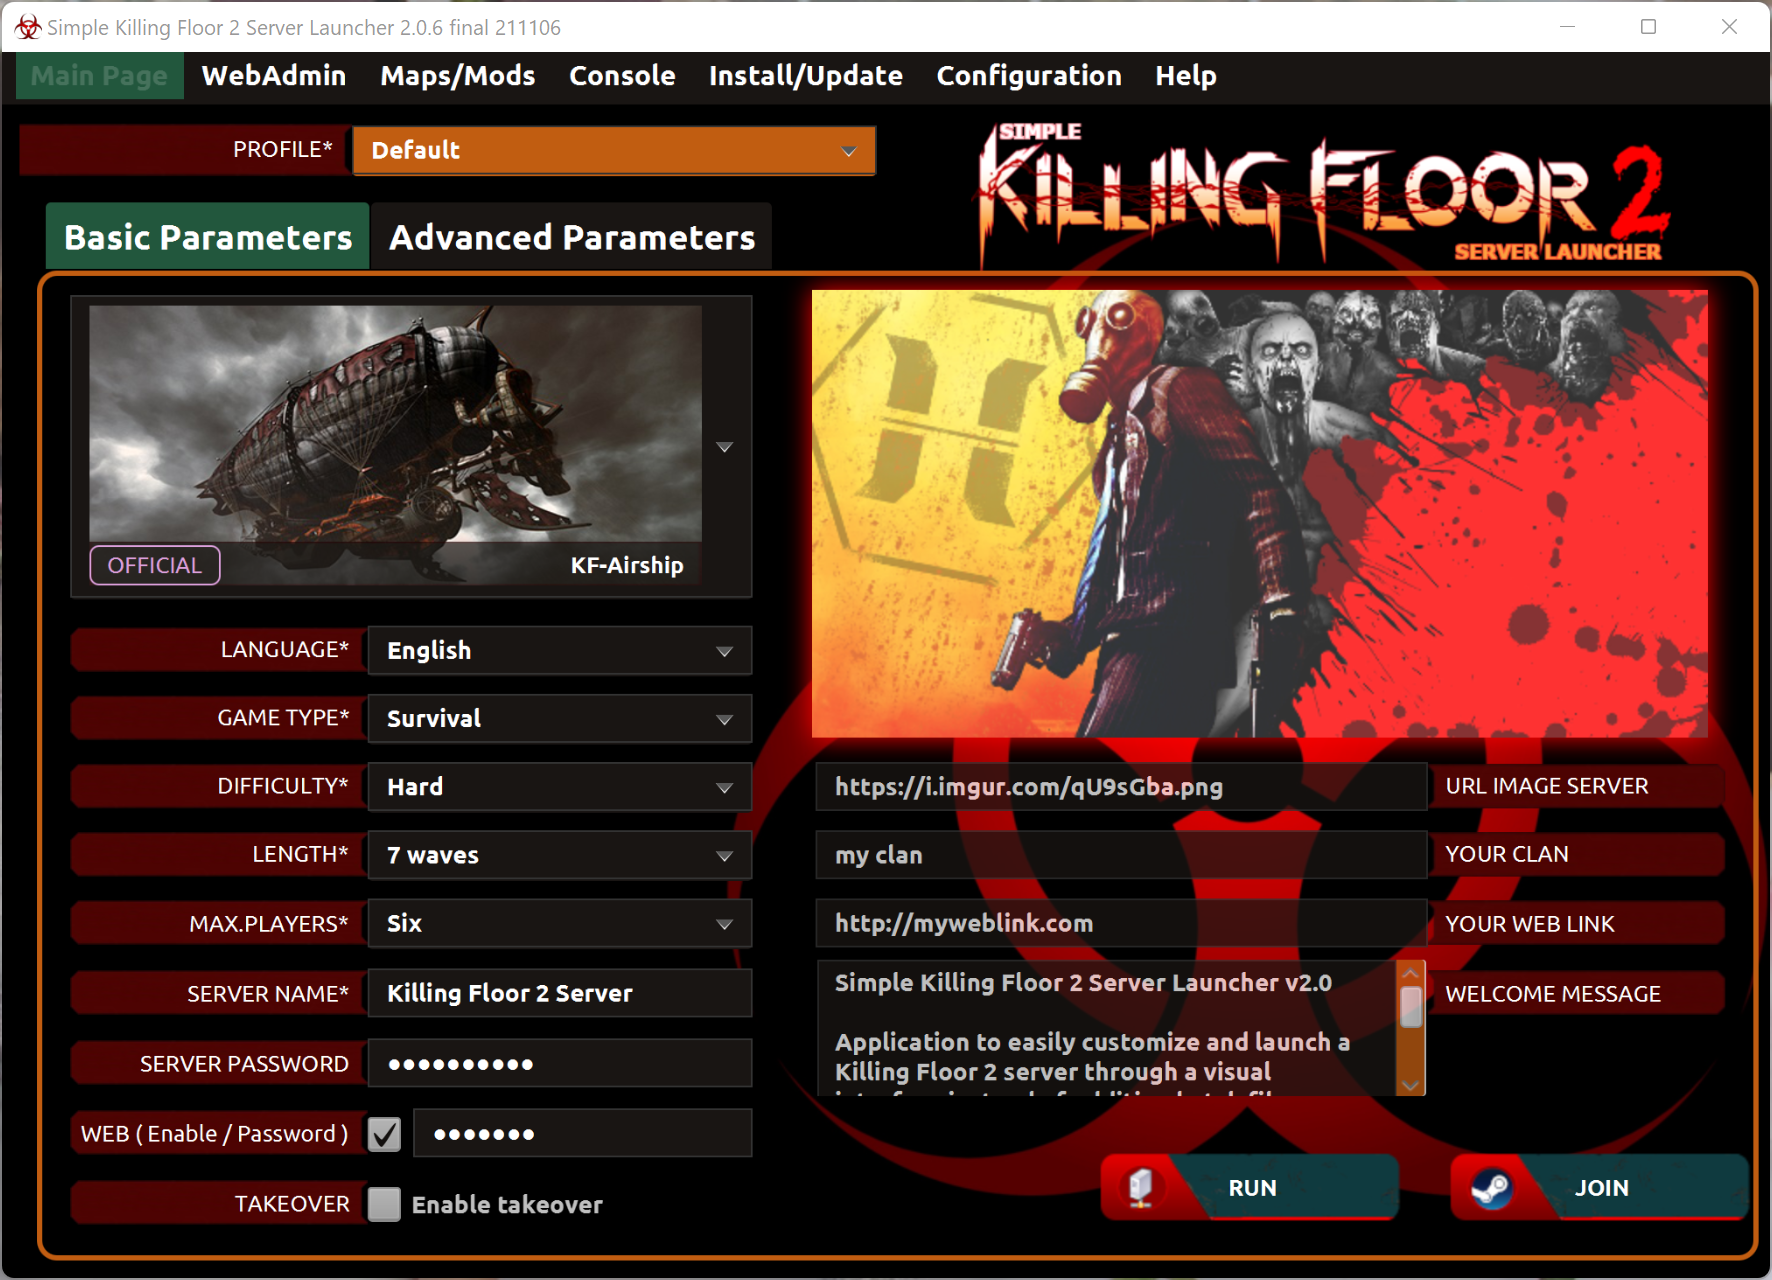
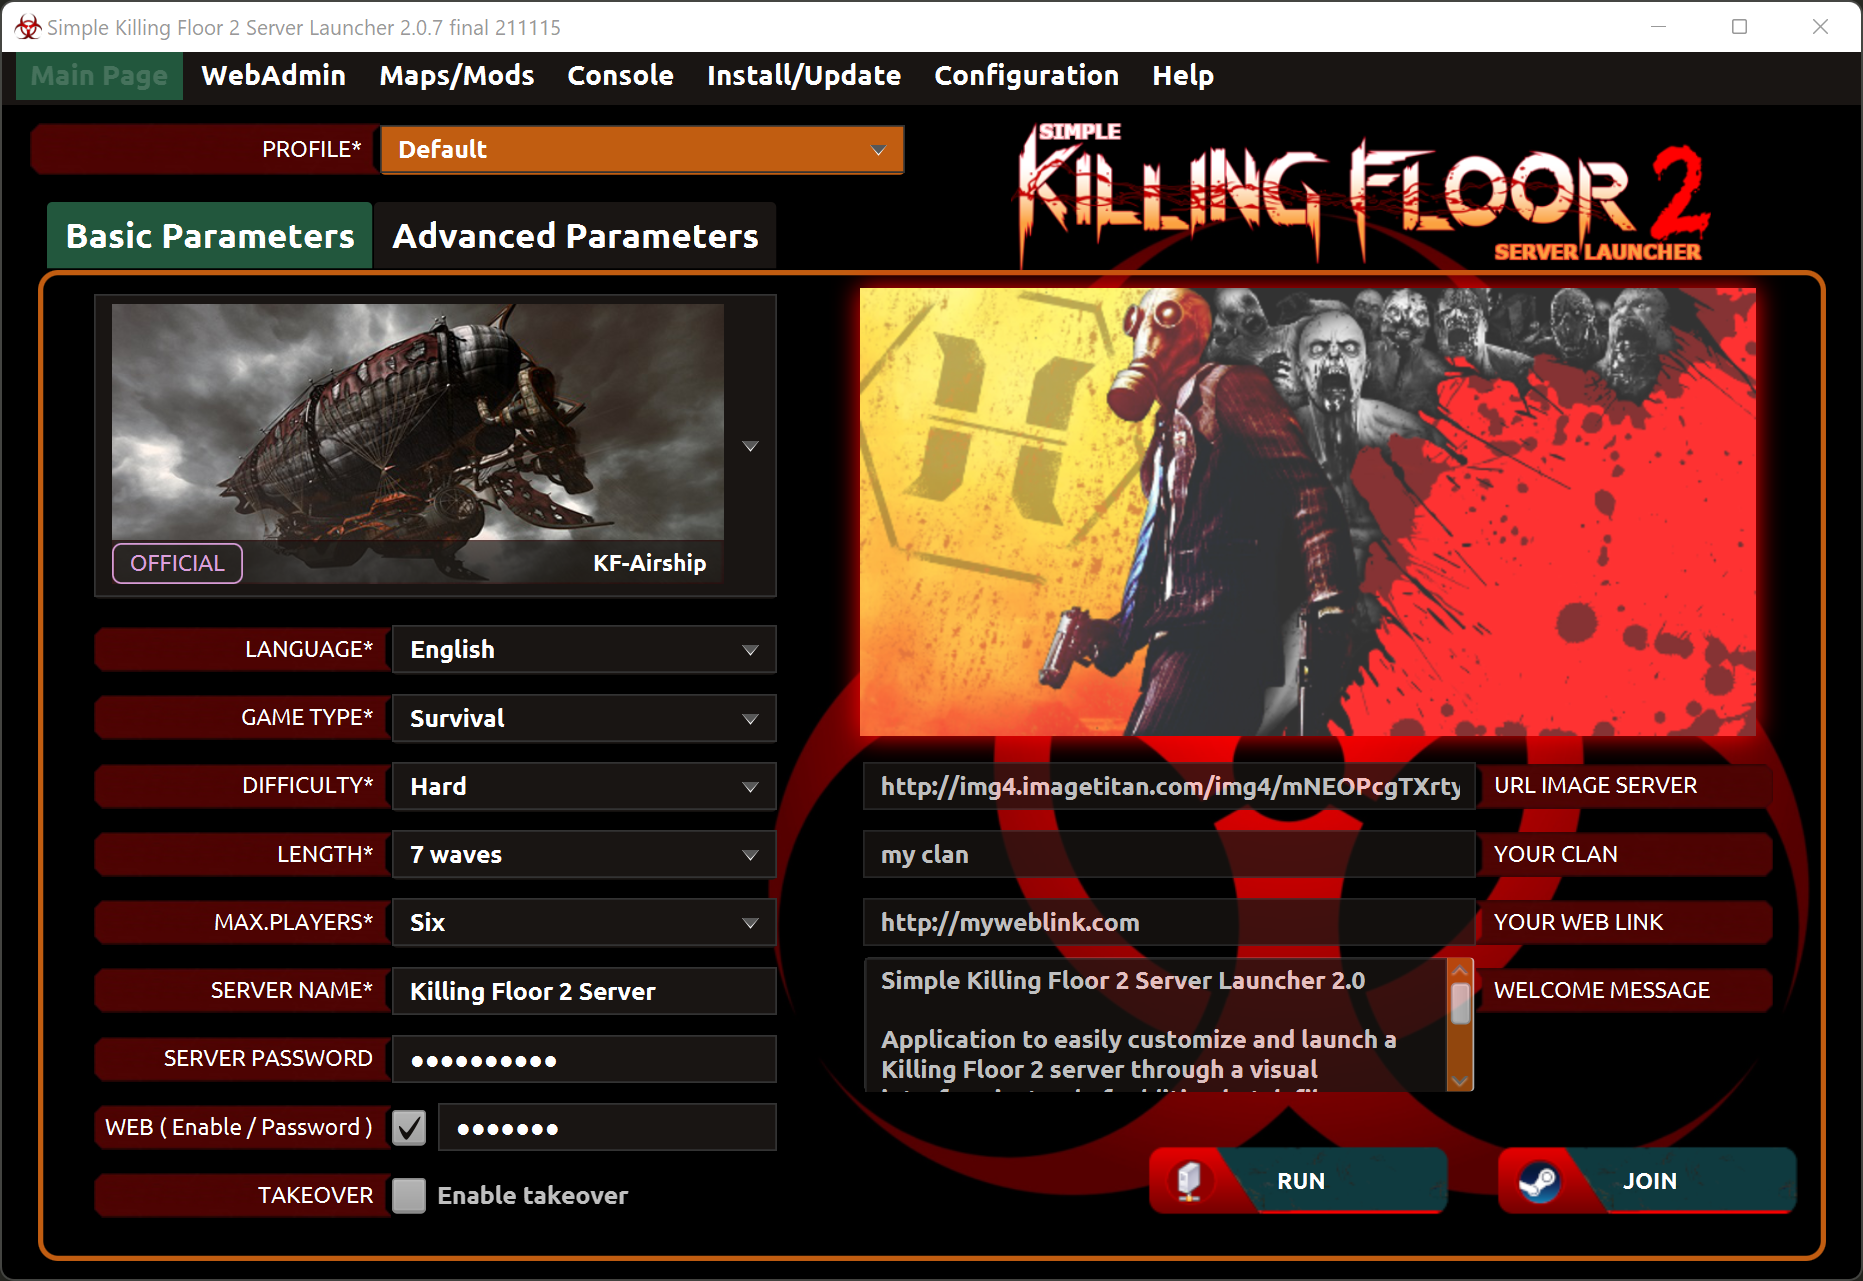
Updates in documentation

diff --git a/doc/es/PRE-REQUISITOS.md b/doc/es/PRE-REQUISITOS.md
@@ -12,7 +12,9 @@
   | Steam Port  | 20560       | UDP        |                                                                                           |
   | NTP Port    | 123         | UDP        | Semanal solamente - Usado para determinar el evento semanal correctamente                 |
 
-- Instalar Oracle JRE 8 (Java Runtime Environment) para poder ejecutar el lanzador. JRE puede ser descargado de [aquí](https://www.java.com/es/download/).
+- Instalar Oracle JDK 17 or más reciente (Java Development Kit) o bien OpenJDK para poder ejecutar el lanzador.
+  - JDK puede ser descargado desde [aquí](https://www.oracle.com/java/technologies/downloads/).
+  - OpenJDK puede ser descargado desde [aquí](https://openjdk.java.net/).
 
 ---
 Back to main page [here](../../LEEME.md).

diff --git a/doc/PRE-REQUISITES.md b/doc/PRE-REQUISITES.md
@@ -12,7 +12,9 @@
   | Steam Port  | 20560    | UDP       |                                                                             |
   | NTP Port    | 123      | UDP       | Weekly Outbreak Only - Internet time lookup to determine correct Outbreak   |
 
-- Install Oracle JRE 8 (Java Runtime Environment) in order to be able to execute the launcher. JRE can be downloaded from [here](https://www.java.com/en/download/).
+- Install Oracle JDK 17 or later (Java Development Kit) or OpenJDK in order to be able to execute the launcher.
+  - JDK can be downloaded from [here](https://www.oracle.com/java/technologies/downloads/).
+  - OpenJDK can be downloaded from [here](https://openjdk.java.net/).
 
 ---
 Back to main page [here](../README.md).

diff --git a/LEEME.md b/LEEME.md
@@ -6,7 +6,7 @@ _[Click here to open documentation in english | Pulse aquí para abrir documenta
 Aplicación para personalizar y lanzar fácilmente un servidor de Killing Floor 2 a través de una interfaz visual en lugar de editar ficheros batch o de configuración del servidor. Ha sido desarrollado en Java y la interfaz es compatible con los S.O. Windows y Linux.
 
 ```
-Versión: 2.0.6 final
+Versión: 2.0.7 final
 S.O. soportados: Microsoft Windows y Linux (Ubuntu/Debian)
 Desarrollado por: César Rodríguez González
 Idiomas: Inglés, Español, Francés

diff --git a/README.md b/README.md
@@ -6,7 +6,7 @@ _[Click here to open documentation in spanish | Pulse aquí para abrir documenta
 Application to easily customize and launch a Killing Floor 2 server through a visual interface instead of edditing batch files or server's config files. It has been developed with Java, so the interface is compatible on Windows and Linux OS.
 
 ```
-Version: 2.0.6 final
+Version: 2.0.7 final
 Supported OS: Microsoft Windows and Linux (Ubuntu/Debian)
 Developed by: César Rodríguez González
 Languages: English, Spanish, French
